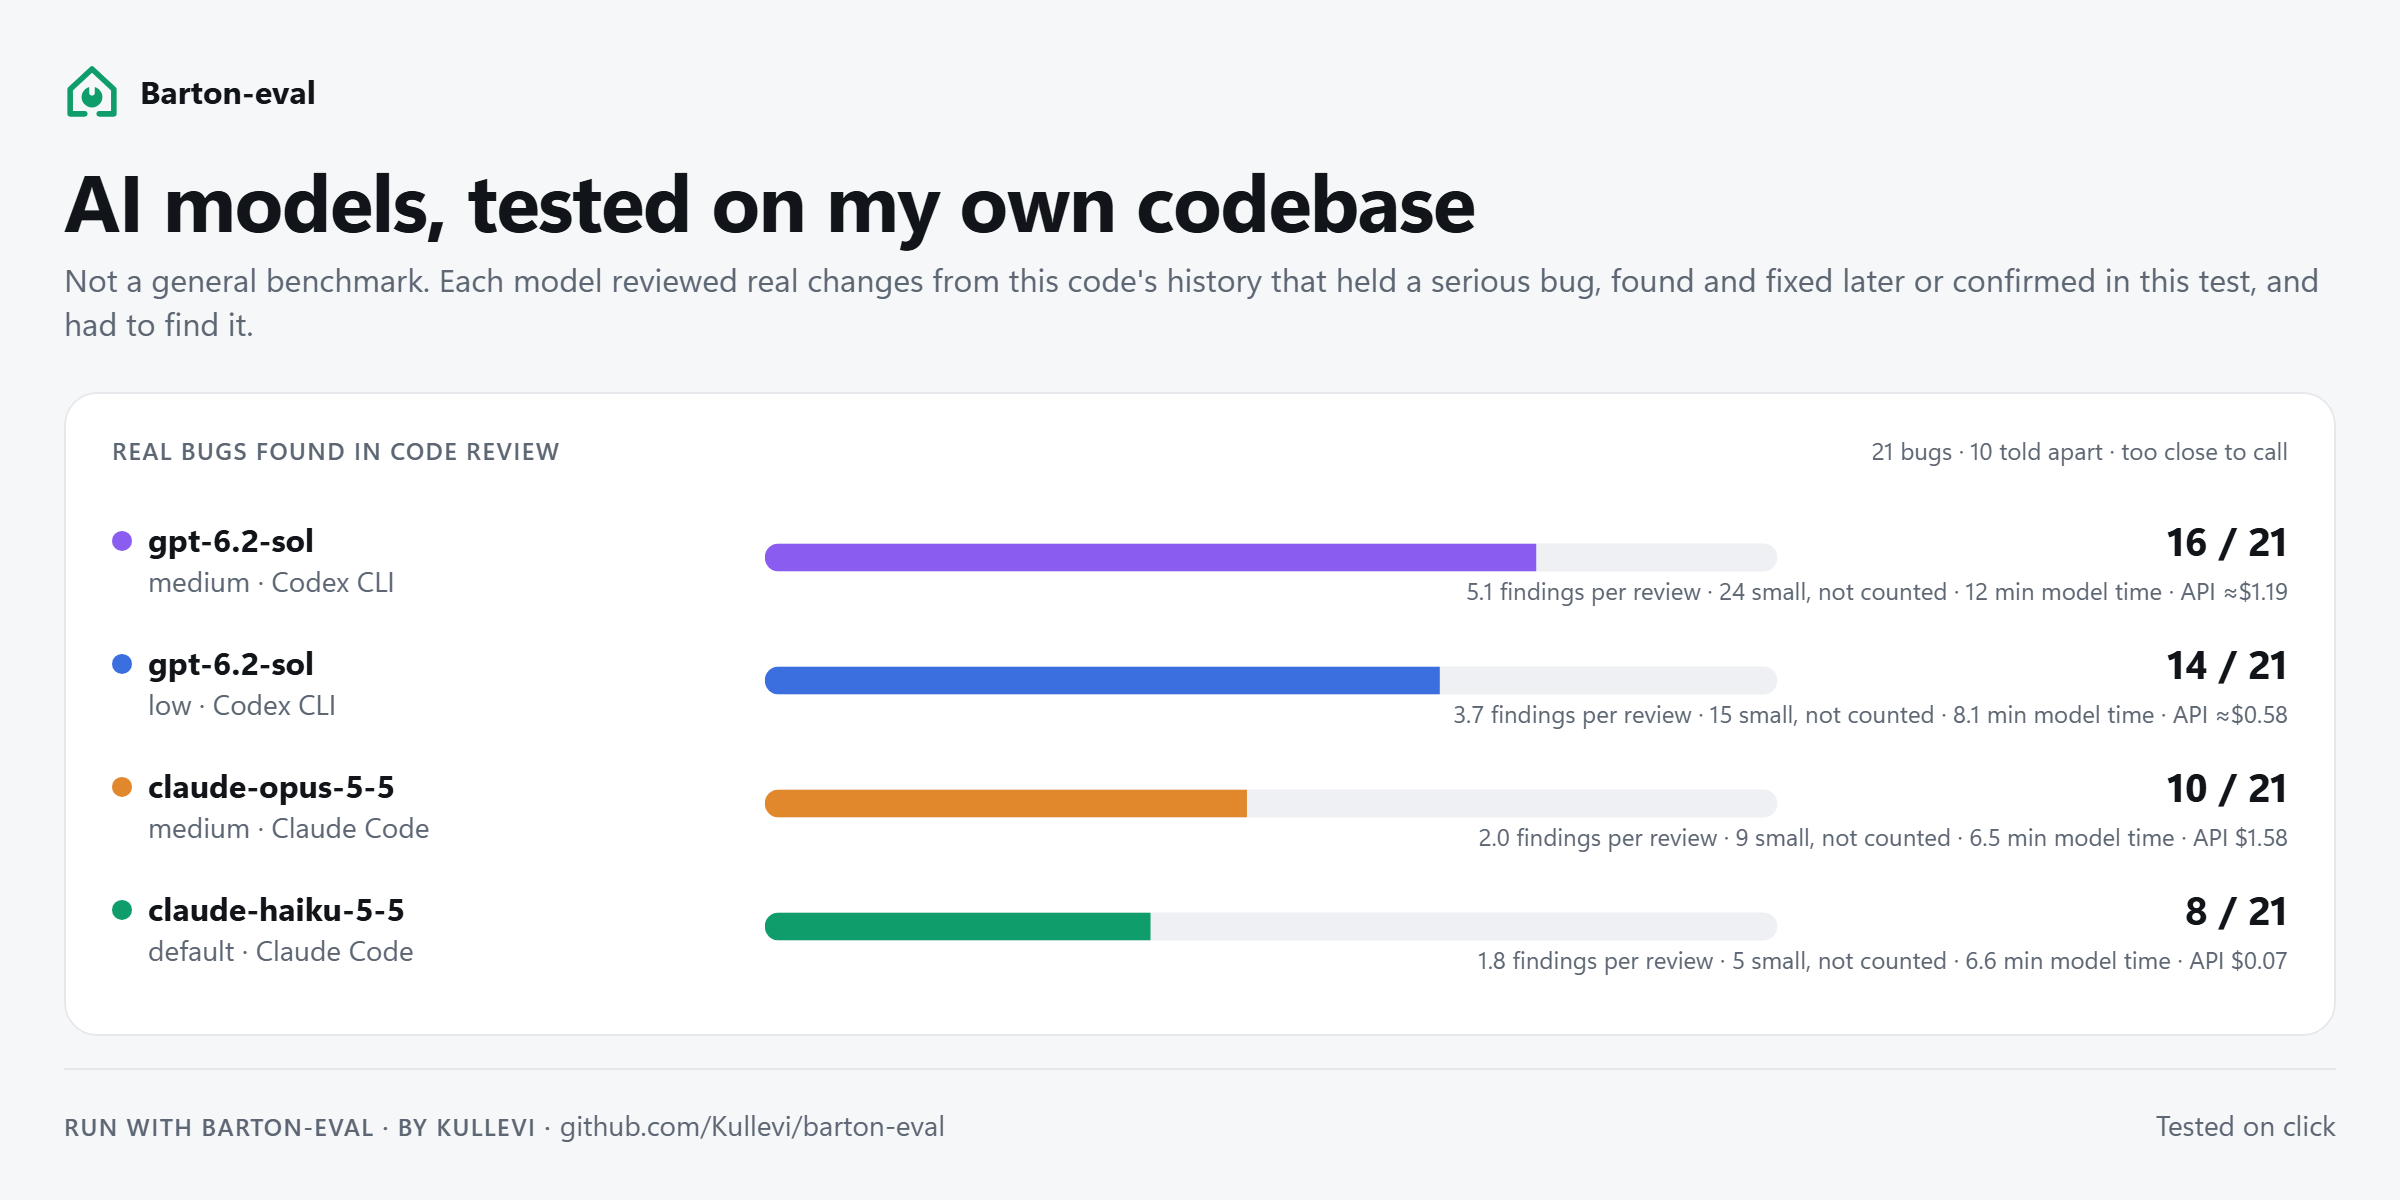
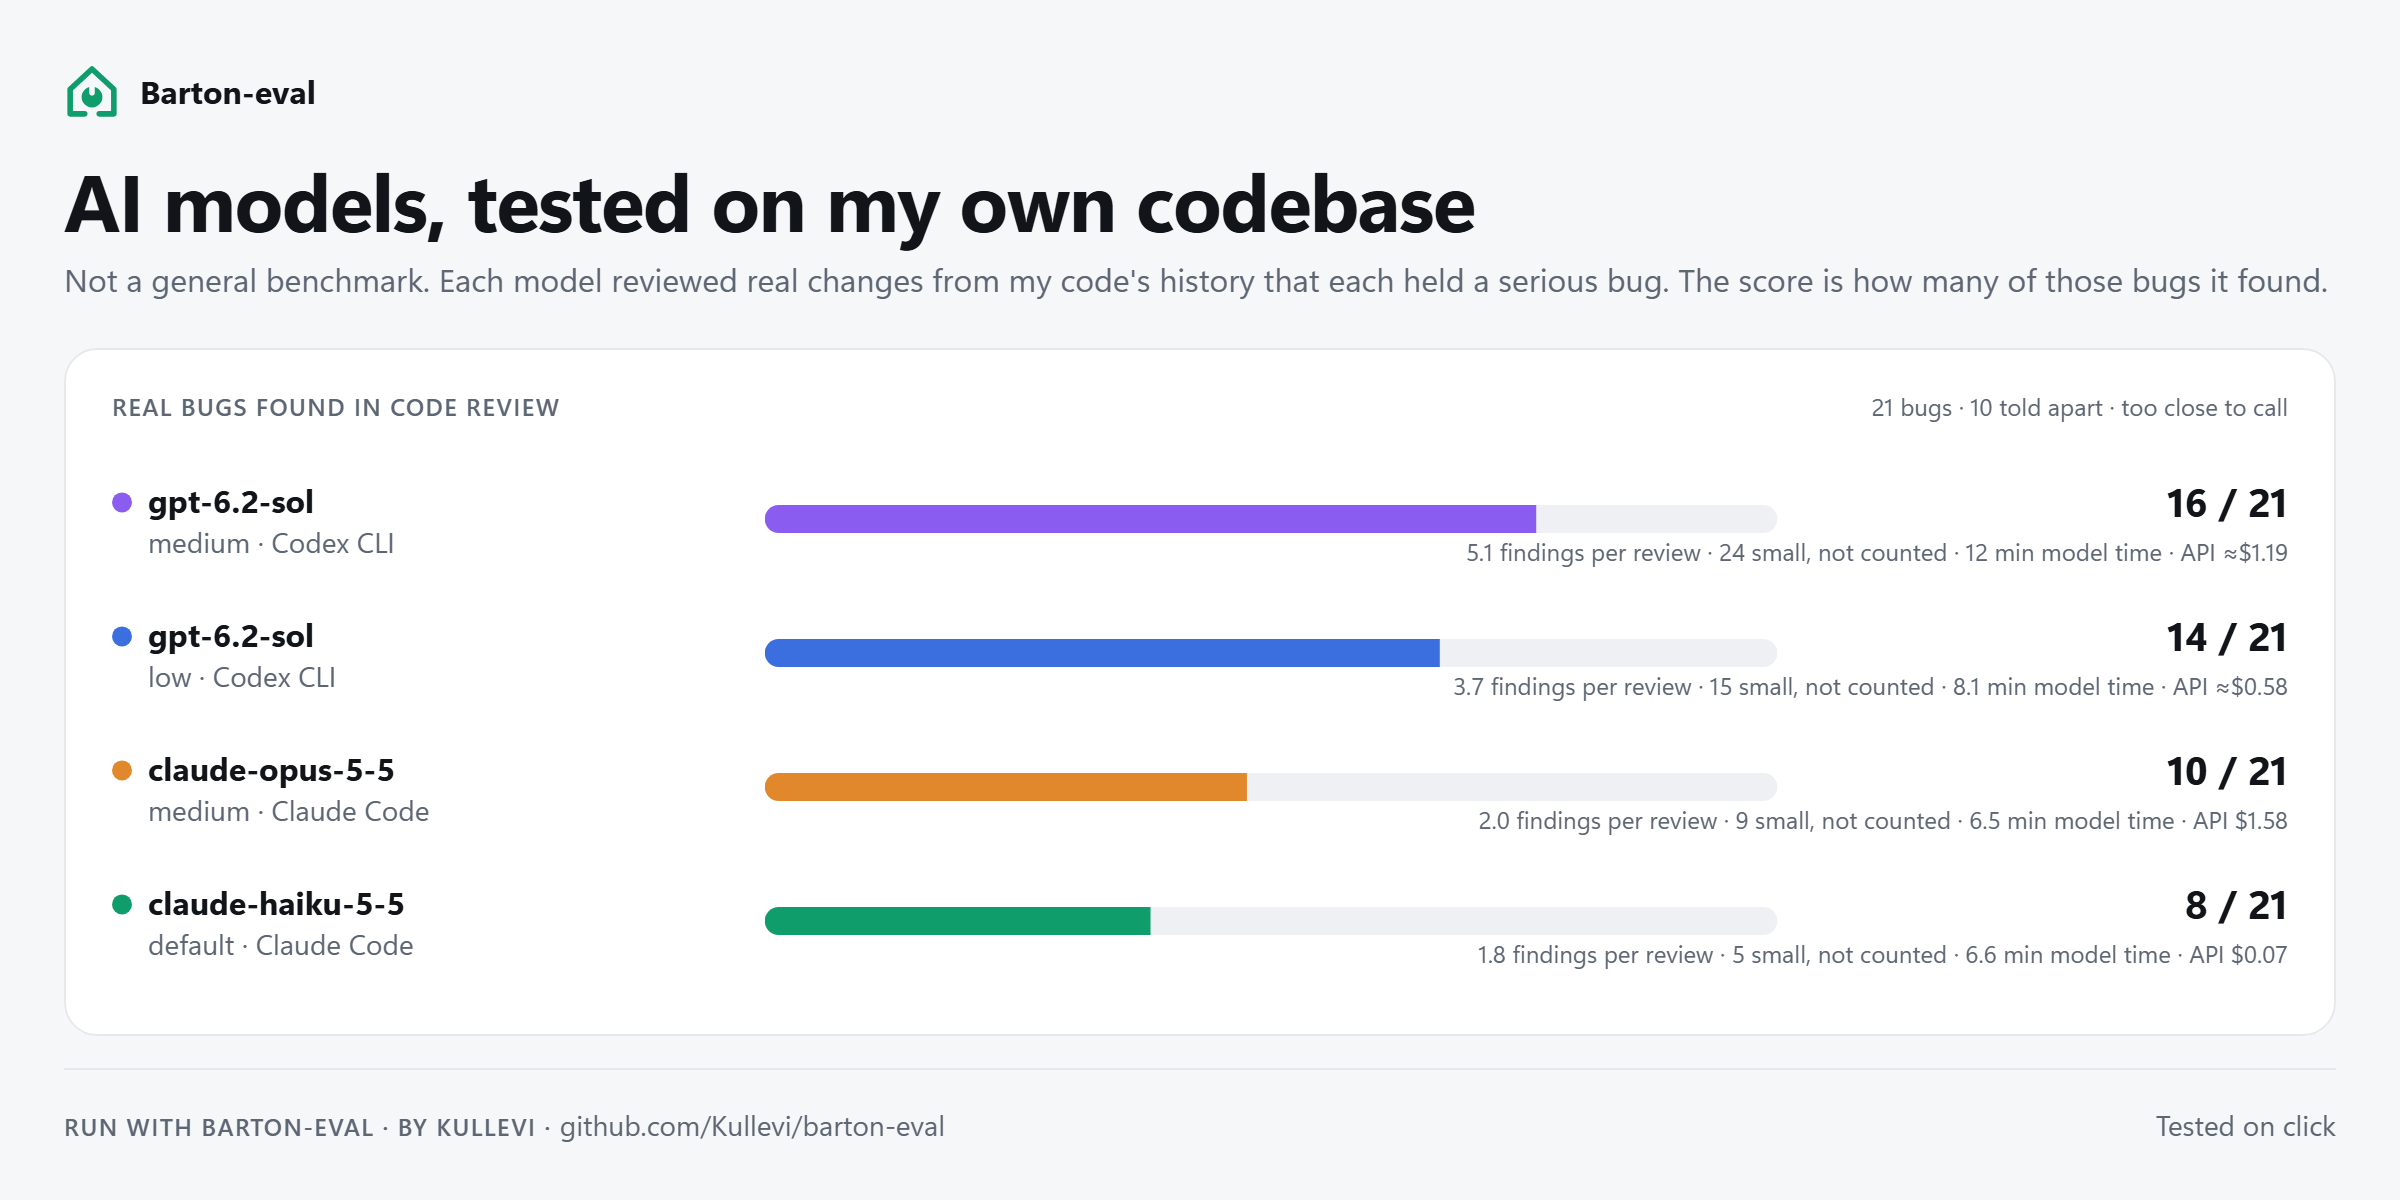
Intro written for the shared card; the page names the judge; the skill asks for the strongest model as judge and checker

diff --git a/report.html b/report.html
@@ -103,7 +103,7 @@ td small { display:block; color:var(--muted); }
   <summary>How this is measured</summary>
   <ol class="how">
     <li><b>The tasks.</b> Each is a real change from this project's history that held a bug, fixed in a later commit. The model reviews the change by reading the code as it was then. It cannot see what came after.</li>
-    <li><b>Found or missed.</b> A separate model judges each review without knowing which model wrote it. A bug is found only when the review names that wrong behaviour.</li>
+    <li><b>Found or missed.</b> A fresh model session<span id="judges"></span> judges each review without knowing which model wrote it. A bug is found only when the review names that wrong behaviour.</li>
     <li><b>Other bugs the reviews found.</b> Every finding is checked against the code. One that is real (the wrong behaviour can be shown from the code) and serious (a wrong result, lost data, a crash, a hang or a security hole in ordinary use) is added as one more bug, and every model is judged on it.</li>
     <li><b>Small findings.</b> Real but small findings, such as style, documentation, tests and rare corners, are counted beside each model and never change the score. A model cannot win by being picky.</li>
   </ol>
@@ -373,7 +373,7 @@ function intro(P) {
   return {
     headline: "AI models, tested on my own codebase",
     sub: ["Not a general benchmark.",
-      P.write ? "Each model redid real changes from this code's history, and the original tests decided whether it succeeded." : "Each model reviewed real changes from this code's history that held a serious bug, found and fixed later or confirmed in this test, and had to find it.",
+      P.write ? "Each model redid real changes from my code's history, and the original tests decided whether it succeeded." : "Each model reviewed real changes from my code's history that each held a serious bug. The score is how many of those bugs it found.",
       DATA.quick ? "A quick run, on few tasks." : ""].filter(Boolean).join(" "),
   };
 }
@@ -516,6 +516,8 @@ function render() {
     grid.append(panelEl(P.main, true, T));
     if (P.side.length) { const side = el("div", "side"); for (const p of P.side) side.append(panelEl(p, false, T)); grid.append(side); }
   }
+  const judges = [...new Set((DATA.results || []).map(r => r.judge_model).filter(Boolean))];
+  $("judges").textContent = judges.length ? ` (${judges.join(", ")})` : "";
   renderTable();
   fitWindow();
 }

diff --git a/SKILL.md b/SKILL.md
@@ -212,7 +212,9 @@ review labeled A, B, C in random order, with model names and folder paths
 removed. Give each bundle to a fresh judge that does not know which model wrote
 what and sees only that bundle: preferably the other vendor's CLI (for example
 `codex exec -s read-only "<instructions>"` when you are Claude), or otherwise a
-fresh subagent. Ask it, for each review separately, whether it identifies this
+fresh subagent. Use the strongest model you have for judges and for the
+helpers that check findings, at least as strong as the one running this
+session: a weak checker gives a weak list of bugs. Ask it, for each review separately, whether it identifies this
 bug: the wrong behaviour the later fix corrects, at the place of the bug or
 where it shows, in any words. A finding about something else does not count,
 and neither does a vague remark that would fit any change. Then record each
